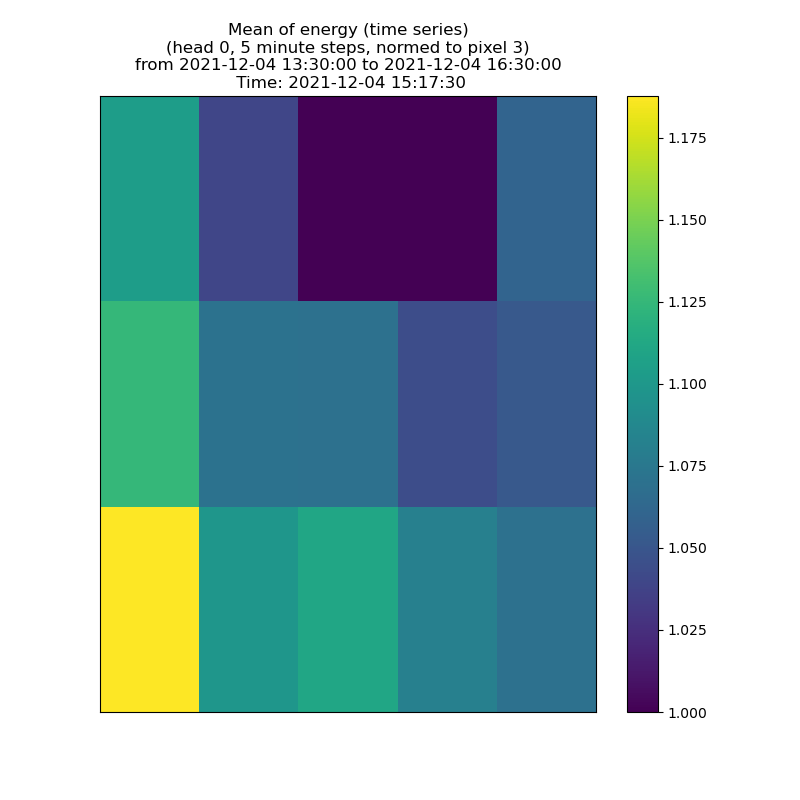
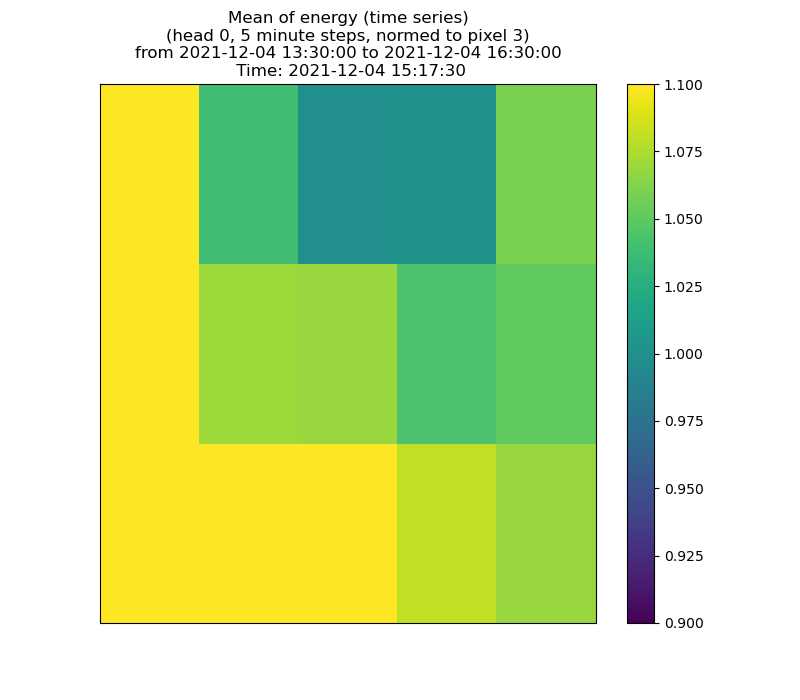
Die GIFs funktionieren

diff --git a/analyze_nom_II.py b/analyze_nom_II.py
@@ -7,6 +7,7 @@ import datetime as dt
 import matplotlib.dates as mdates
 import load_nom_II as ld
 import plot_nom_II as pt
+import math
 
 from PIL import Image
 import glob
@@ -534,6 +535,8 @@ class STEP:
                 if k!= norm_pixel:
                     pixel_means[k] = np.array(pixel_means[k])/norm_factor
                     plt.plot(pixel_means[norm_pixel][ind],pixel_means[k][ind],label='Pixel ' + str(k))
+                else:
+                    plt.axhline(1.0,label='Pixel ' + str(norm_pixel))
         
         if norm_pixel != None:
             plt.title('Deviation of mean of energy distribution for head ' + str(head) + '\nfrom ' + str(period[0]) + ' to ' + str(period[1]) + ' (' + str(window_width) + ' minute steps, normed to pixel ' + str(norm_pixel) + ')')
@@ -610,11 +613,17 @@ class STEP:
             ind = np.array([i for i in range(len(pixel_means[norm_pixel]))])
             
         norm_factor = np.array(pixel_means[norm_pixel]) 
+        vmin = 1.0
+        vmax = 1.0
         for k in range(0,16):
             if k == 0:
                 pixel_means[k] = np.array(pixel_means[k])
             else:
                 pixel_means[k] = np.array(pixel_means[k])/norm_factor
+                if max(pixel_means[k]) > vmax:
+                    vmax = max(pixel_means[k])
+                if min(pixel_means[k]) < vmin:
+                    vmin = min(pixel_means[k])
         
         # Plotting
         x_corners = [0,1,2,3,4,5]
@@ -625,9 +634,9 @@ class STEP:
             c = [pixel_means[j][ind][k] for j in range(11,16)]        
             data_means = np.array([c,b,a])
             
-            fig, ax = plt.subplots(1,1,figsize=(8,8))
+            fig, ax = plt.subplots(1,1,figsize=(8,7))
             
-            tmp = ax.pcolormesh(x_corners,y_corners,data_means)
+            tmp = ax.pcolormesh(x_corners,y_corners,data_means,vmin=vmin,vmax=vmax)
             plt.colorbar(tmp)
             ax.get_xaxis().set_visible(False)
             ax.get_yaxis().set_visible(False)
@@ -637,7 +646,11 @@ class STEP:
             else:
                 ax.set_title(title + f'\n(head {head}, {window_width} minute steps, normed to pixel {norm_pixel})\nfrom ' + str(period[0]) + ' to ' + str(period[1]) + f'\n Time: ' + str(pixel_means[0][ind][k]))
     
-            plt.savefig('gif_images/image' + str(k) + '.png')
+            # Quick and dirty führende Nullen für korrekte Sortierung
+            if k < 10:
+                plt.savefig('gif_images/image0' + str(k) + '.png')
+            else:
+                plt.savefig('gif_images/image' + str(k) + '.png')
             
             if close:
                 plt.close('all')
@@ -645,6 +658,7 @@ class STEP:
         # Erstellen des GIF's
         frames = []
         imgs = glob.glob("gif_images/image*.png")
+        imgs.sort()
         for i in imgs:
             new_frame = Image.open(i)
             frames.append(new_frame)
@@ -652,8 +666,11 @@ class STEP:
         # Save the png images into a GIF file that loops forever
         frames[0].save(f'gif/{filename}.gif', format='GIF', append_images=frames[1:], save_all=True, duration=500, loop=0)
         print('Created GIF successfully!')
-        print(imgs)
         
+    def wrapper_distribution_ring(self,filename,head,norm,save,period,box_list,norm_pixel,res = '1min', overflow = True, esquare = False,window_width = 5, close=True):
+       self.distribution_ring(filename='pixel_sorted_energy_' + filename, title='Mean of energy sorted by energy of pixel {norm_pixel}', head=head, norm=norm, save=save, period=[dt.datetime(2021,12,4,13,30),dt.datetime(2021,12,4,16,30)],box_list=box_list, norm_pixel = 3, res = res, overflow = overflow, esquare = esquare, window_width = window_width, close=close, sorted_by_energy=True)
+       self.distribution_ring(filename='pixel_ring_ts_' + filename, title='Mean of energy (time series)', head=0, norm='tmax', save='etracks/', period=[dt.datetime(2021,12,4,13,30),dt.datetime(2021,12,4,16,30)],box_list=box_list, norm_pixel = 3, res = res, overflow = overflow, esquare = esquare, window_width = window_width, close=close, sorted_by_energy=False)   
+
 
     def landau(self,x,A,B,C,D):
         return A/np.sqrt(2*np.pi)*np.exp(-B*0.5*((x+C) + np.exp(-(x+C)))) + D

diff --git a/analyze_data.py b/analyze_data.py
@@ -6,8 +6,8 @@ import datetime as dt
 
 from analyze_nom_II import STEP
 
-dat = STEP(2021,12,4,rpath='data/')
-# dat = STEP(2021,12,4)
+# dat = STEP(2021,12,4,rpath='data/')
+dat = STEP(2021,12,4)
 
 box_list = [[[15,35],[30,38]],[[20,45],[25,30]],[[26,80],[20,25]],[[30,120],[15,20]],[[40,155],[10,15]],[[50,170],[3,10]]]
 box_list_2 = [[[15,35],[30,35]],[[20,45],[25,30]],[[30,60],[20,25]],[[30,80],[15,20]],[[50,100],[10,15]],[[100,150],[3,10]]]
@@ -24,9 +24,10 @@ pixel_list = [i for i in range(1,16)] # [4,9,14]
 # dat.evolution_energy_means_ts(filename='test_evolution.png',head=0,norm='tmax',save='etracks/',period=[dt.datetime(2021,12,4,13,30),dt.datetime(2021,12,4,16,30)],box_list=box_list,pixel_list=pixel_list,norm_pixel=3,close=True)
 # dat.evolution_energy_means_ts(filename='test_evolution_2.png',head=0,norm='tmax',save='etracks/v2',period=[dt.datetime(2021,12,4,13,30),dt.datetime(2021,12,4,16,30)],box_list=box_list_2,pixel_list=pixel_list,norm_pixel=4,close=True)
 
-dat.distribution_ring(filename='Test', title='Mean of energy sorted by energy of pixel 3', head=0, norm='tmax', save='etracks/', period=[dt.datetime(2021,12,4,13,30),dt.datetime(2021,12,4,16,30)],box_list=box_list, norm_pixel = 3, res = '1min', overflow = True, esquare = False,window_width = 5, close=True, sorted_by_energy=True)
-dat.distribution_ring(filename='Test_time', title='Mean of energy (time series)', head=0, norm='tmax', save='etracks/', period=[dt.datetime(2021,12,4,13,30),dt.datetime(2021,12,4,16,30)],box_list=box_list, norm_pixel = 3, res = '1min', overflow = True, esquare = False,window_width = 5, close=True, sorted_by_energy=False)
+# dat.distribution_ring(filename='Test', title='Mean of energy sorted by energy of pixel 3', head=0, norm='tmax', save='etracks/', period=[dt.datetime(2021,12,4,13,30),dt.datetime(2021,12,4,16,30)],box_list=box_list, norm_pixel = 3, res = '1min', overflow = True, esquare = False,window_width = 5, close=True, sorted_by_energy=True)
+# dat.distribution_ring(filename='Test_time', title='Mean of energy (time series)', head=0, norm='tmax', save='etracks/', period=[dt.datetime(2021,12,4,13,30),dt.datetime(2021,12,4,16,30)],box_list=box_list, norm_pixel = 3, res = '1min', overflow = True, esquare = False,window_width = 5, close=True, sorted_by_energy=False)
 
+dat.wrapper_distribution_ring('21_12_04', head=0, norm='tmax', save='etracks/', period=[dt.datetime(2021,12,4,13,30),dt.datetime(2021,12,4,16,30)], box_list=box_list, norm_pixel=3)
 
 # dat = STEP(2021,12,5)
 # dat.marginal_distribution(pixel=4,norm='tmax',save='analyze/')
